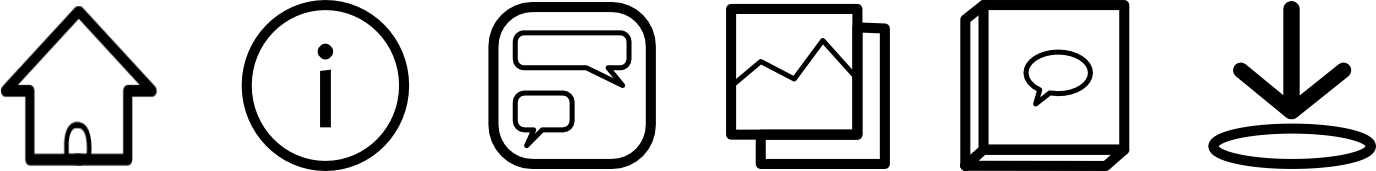
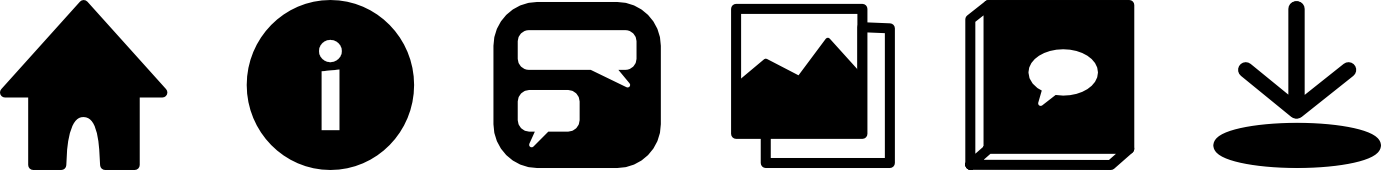
Style changes

diff --git a/src/style.css b/src/style.css
@@ -141,10 +141,33 @@ h4 {
   }
 }
 
+/* template */
+
+.main-content-wrapper {
+  width: 100%;
+  min-height: 600px;
+  padding: var(--container-padding);
+  display: flex;
+  flex-direction: column;
+  box-sizing: border-box;
+}
+
+.main-content-container {
+  display: flex;
+  background-color: #fff;
+  min-height: 600px;
+  height: 100%;
+  transition: var(--container-normal-trans);
+  box-shadow: var(--container-normal-shadow);
+  box-sizing: border-box;
+  min-height: 800px;
+}
+
+
 
 .site-title {
   font-size: 35px;
-  user-select: none;  
+  user-select: none;
 }
 
 .construction {
@@ -239,12 +262,13 @@ h4 {
   width: max-content;
 }
 
-.icon-item > * img {
+.icon-item>* img {
   width: 88px;
   height: 34px;
 }
 
-.icon-list, .reference-me {
+.icon-list,
+.reference-me {
   display: flex;
   flex-direction: column;
   justify-content: flex-start;
@@ -266,10 +290,10 @@ h4 {
   padding: 5px;
   padding-top: 10px;
   padding-bottom: 0;
-  gap:10px;
+  gap: 10px;
 }
 
-.reference-me > textarea {
+.reference-me>textarea {
   height: 50px;
 }
 
@@ -315,27 +339,32 @@ h4 {
 .icon-set-shrink {
   width: 50px;
   height: 50px;
-  background-image: url('sys/sysassets.png');
+  background-image: url('/sys/sysassets.png');
   background-repeat: no-repeat;
   background-size: 550%;
-  background-attachment:local;
+  background-attachment: local;
 }
 
 .icon-set-shrink.Home {
   background-position: 6px;
 }
+
 .icon-set-shrink.About {
   background-position: -43px;
 }
+
 .icon-set-shrink.Blog {
   background-position: -91px;
 }
+
 .icon-set-shrink.Gallery {
   background-position: -138px;
 }
+
 .icon-set-shrink.Guestbook {
   background-position: -186px;
 }
+
 .icon-set-shrink.Sitemap {
   background-position: -236px;
 }
@@ -424,7 +453,7 @@ h4 {
 }
 
 .header-container:hover {
-  width:80%;
+  width: 80%;
 }
 
 /* .content-container:hover, */
@@ -783,7 +812,7 @@ h4 {
 
 .bloglet-window:has(.webring-content) {
   max-width: none;
-} 
+}
 
 .bloglet-window:hover {
   box-shadow: 2px 2px var(--box-shadow-bottom);
